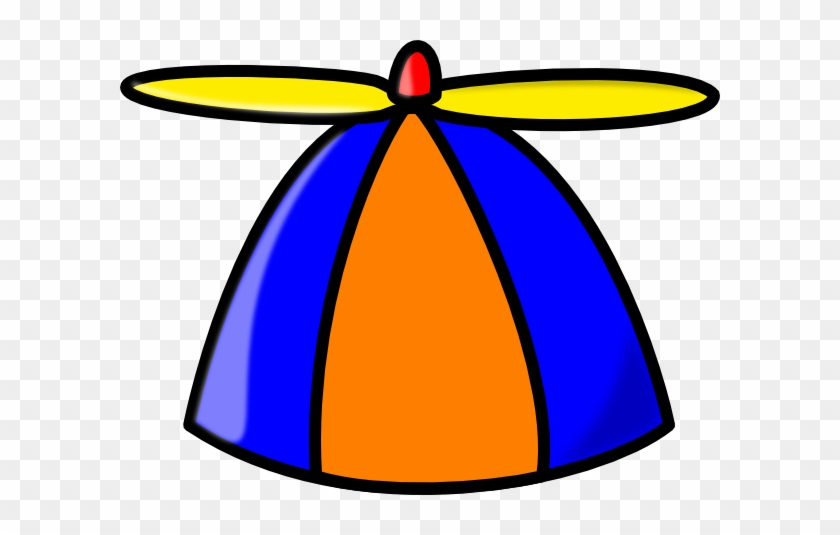
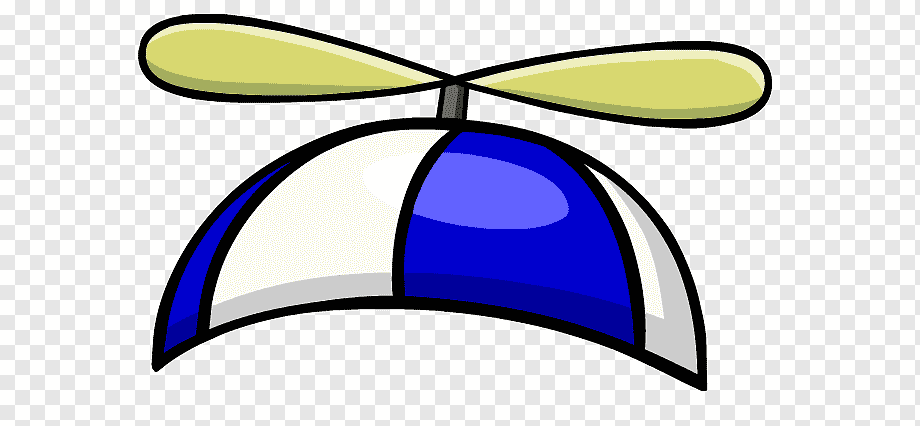
ajout de l'helico (image)

diff --git a/src/gui/Game.java b/src/gui/Game.java
@@ -175,7 +175,7 @@ public class Game extends Etat implements MouseInputListener {
             if (pf.getItem() != null) {
                 Items it = pf.getItem();
                 BufferedImage itv = (it instanceof Fusee) ? this.vue.getFuseeView()
-                        : this.vue.getProjectileView();
+                        : (it instanceof Helicoptere) ? this.vue.getHelicoView() : this.vue.getProjectileView();
                 g2.drawImage(itv, (int) it.getX(), (int) it.getY(), (int) it.getWidth(), (int) it.getHeight(), null);
             }
         }
